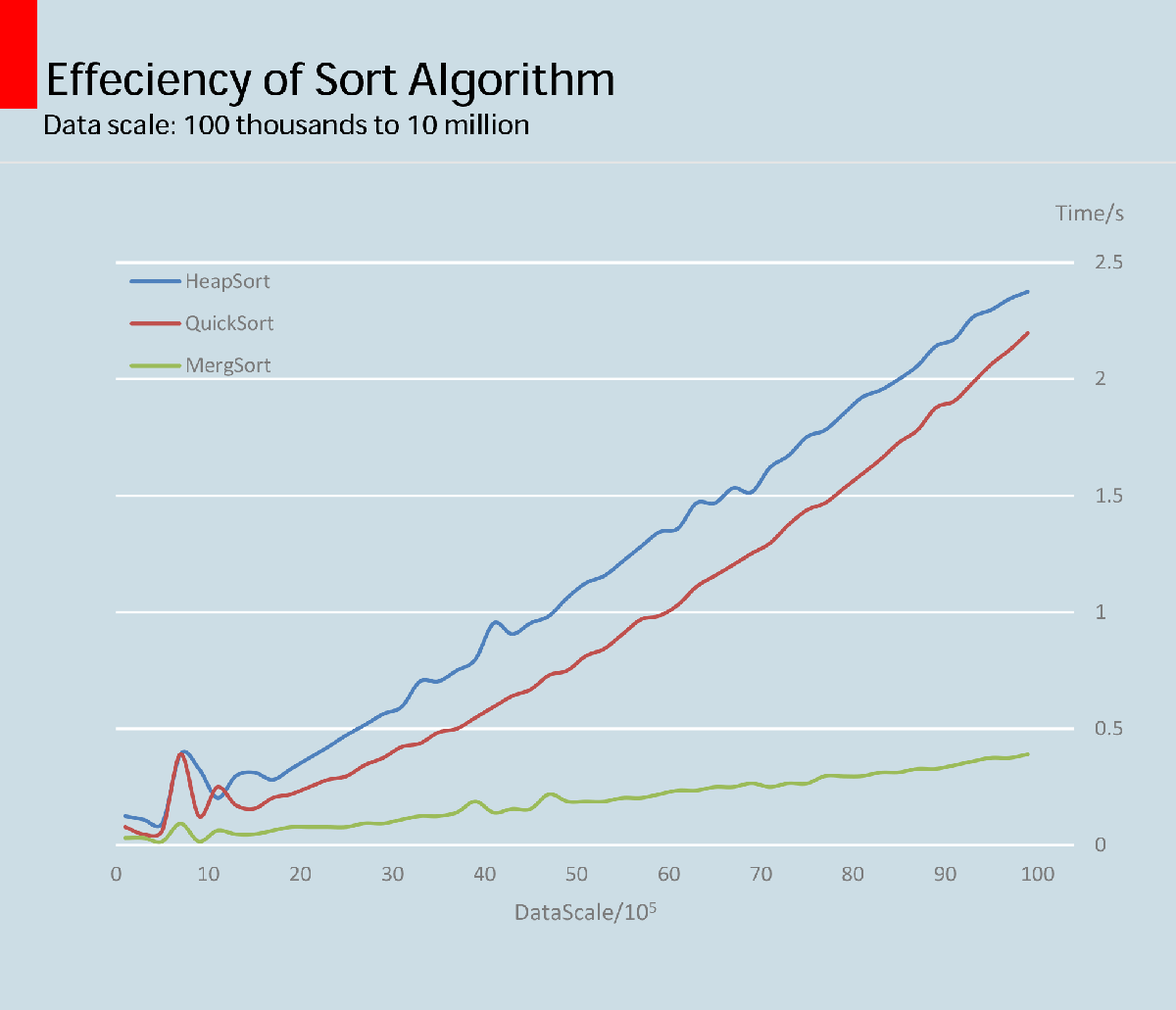
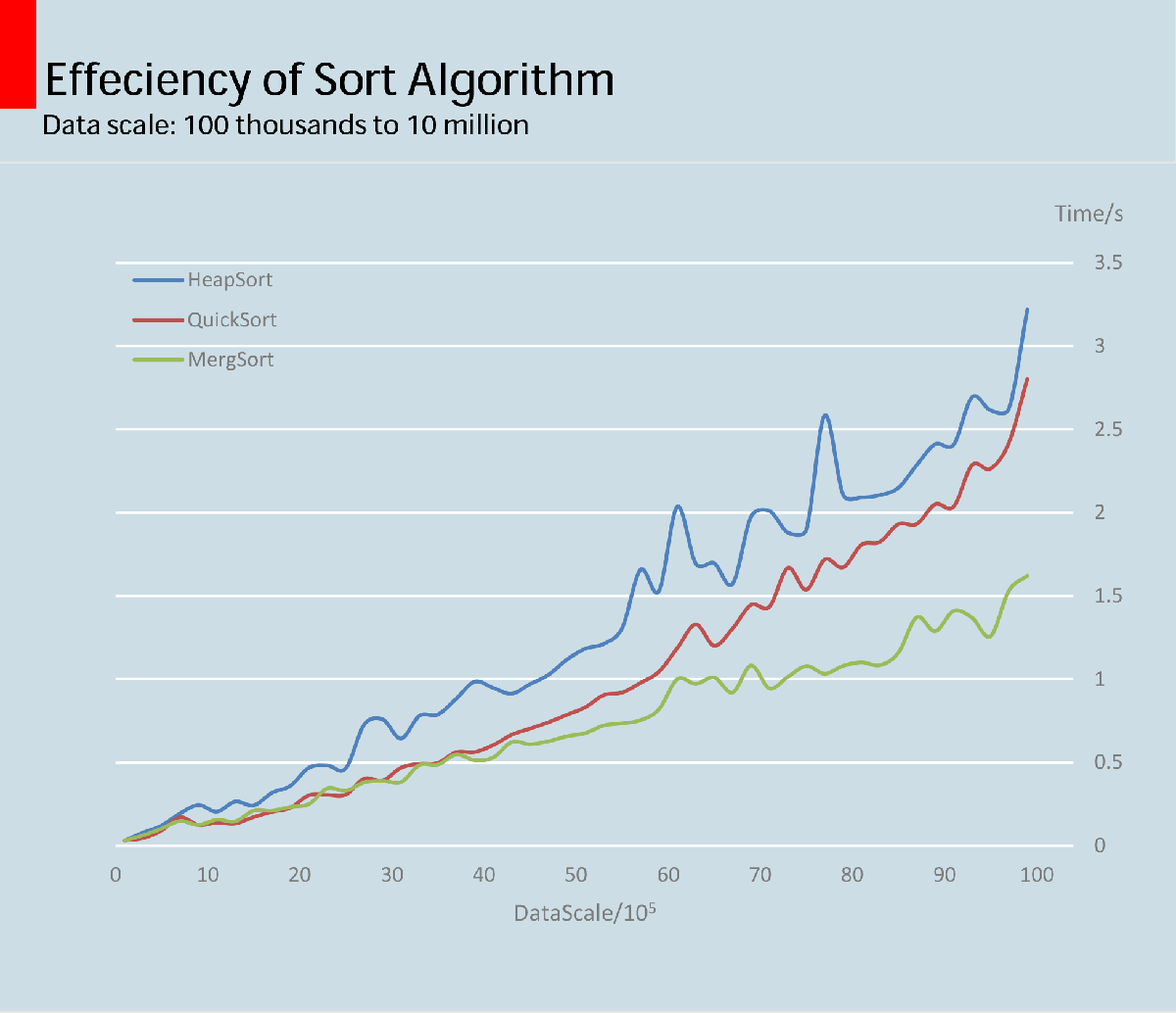
Site updated: 2018-04-08 22:41:05

diff --git a/2018/04/05/linear-list-java/index.html b/2018/04/05/linear-list-java/index.html
@@ -16,7 +16,7 @@
 <meta property="og:site_name" content="LangInteger">
 <meta property="og:description" content="本例中线性表顺序映像实现难点主要在于实现线性表的add函数，借鉴JDK源码中的空间扩增方式，每次增加原有容量的一半。由于标记线性表大小的size变量为int类型，故需要考虑size值溢出的情况。">
 <meta property="og:locale" content="default">
-<meta property="og:updated_time" content="2018-04-08T08:26:01.588Z">
+<meta property="og:updated_time" content="2018-04-08T10:38:47.861Z">
 <meta name="twitter:card" content="summary">
 <meta name="twitter:title" content="线性表顺序映像的Java实现">
 <meta name="twitter:description" content="本例中线性表顺序映像实现难点主要在于实现线性表的add函数，借鉴JDK源码中的空间扩增方式，每次增加原有容量的一半。由于标记线性表大小的size变量为int类型，故需要考虑size值溢出的情况。">
@@ -169,20 +169,19 @@
     
     <div class="article-entry" itemprop="articleBody">
       
-        <ul>
-<li><p>本例中线性表顺序映像实现难点主要在于实现线性表的add函数，借鉴JDK源码中的空间扩增方式，每次增加原有容量的一半。由于标记线性表大小的size变量为int类型，故需要考虑size值溢出的情况。</p>
-<a id="more"></a>
-</li>
-<li><p>定义接口<code>LinearList</code>，接口中的抽象方法主要涵盖增删查改。</p>
+        <blockquote>
+<p>本例中线性表顺序映像实现难点主要在于实现线性表的add函数，借鉴JDK源码中的空间扩增方式，每次增加原有容量的一半。由于标记线性表大小的size变量为int类型，故需要考虑size值溢出的情况。<br><a id="more"></a></p>
+</blockquote>
+<ul>
+<li>定义接口<code>LinearList</code>，接口中的抽象方法主要涵盖增删查改。<blockquote>
 <ul>
 <li>void add(String s, int index);            在线性表下标为index处插入s</li>
-<li>void add(String s);                       在线性表末尾处插入s</li>
 <li>int indexOf(String s);                    查找s在线性表中的索引</li>
 <li>String remove(int index);                 从线性表下标为index处删除元素</li>
 <li>boolean remove(String s);                 删除线性表中第一个s</li>
-<li>boolean set(int index, String s);         修改线性表索引index处的元素为s</li>
 <li>String toString();                        将线性表中元素进行格式化输出</li>
 </ul>
+</blockquote>
 </li>
 </ul>
 <figure class="highlight java"><table><tr><td class="gutter"><pre><span class="line">1</span><br><span class="line">2</span><br><span class="line">3</span><br><span class="line">4</span><br><span class="line">5</span><br><span class="line">6</span><br><span class="line">7</span><br><span class="line">8</span><br><span class="line">9</span><br><span class="line">10</span><br><span class="line">11</span><br><span class="line">12</span><br><span class="line">13</span><br><span class="line">14</span><br><span class="line">15</span><br><span class="line">16</span><br><span class="line">17</span><br><span class="line">18</span><br><span class="line">19</span><br><span class="line">20</span><br><span class="line">21</span><br><span class="line">22</span><br><span class="line">23</span><br><span class="line">24</span><br><span class="line">25</span><br><span class="line">26</span><br><span class="line">27</span><br><span class="line">28</span><br><span class="line">29</span><br><span class="line">30</span><br><span class="line">31</span><br><span class="line">32</span><br><span class="line">33</span><br><span class="line">34</span><br><span class="line">35</span><br><span class="line">36</span><br><span class="line">37</span><br><span class="line">38</span><br><span class="line">39</span><br><span class="line">40</span><br><span class="line">41</span><br><span class="line">42</span><br><span class="line">43</span><br><span class="line">44</span><br><span class="line">45</span><br><span class="line">46</span><br><span class="line">47</span><br><span class="line">48</span><br><span class="line">49</span><br><span class="line">50</span><br><span class="line">51</span><br><span class="line">52</span><br><span class="line">53</span><br><span class="line">54</span><br><span class="line">55</span><br><span class="line">56</span><br><span class="line">57</span><br><span class="line">58</span><br><span class="line">59</span><br><span class="line">60</span><br><span class="line">61</span><br><span class="line">62</span><br><span class="line">63</span><br><span class="line">64</span><br><span class="line">65</span><br><span class="line">66</span><br><span class="line">67</span><br><span class="line">68</span><br><span class="line">69</span><br><span class="line">70</span><br><span class="line">71</span><br><span class="line">72</span><br><span class="line">73</span><br><span class="line">74</span><br><span class="line">75</span><br><span class="line">76</span><br><span class="line">77</span><br><span class="line">78</span><br><span class="line">79</span><br><span class="line">80</span><br><span class="line">81</span><br><span class="line">82</span><br><span class="line">83</span><br><span class="line">84</span><br><span class="line">85</span><br><span class="line">86</span><br><span class="line">87</span><br><span class="line">88</span><br><span class="line">89</span><br><span class="line">90</span><br><span class="line">91</span><br><span class="line">92</span><br><span class="line">93</span><br><span class="line">94</span><br><span class="line">95</span><br><span class="line">96</span><br><span class="line">97</span><br><span class="line">98</span><br><span class="line">99</span><br><span class="line">100</span><br><span class="line">101</span><br><span class="line">102</span><br><span class="line">103</span><br><span class="line">104</span><br><span class="line">105</span><br><span class="line">106</span><br><span class="line">107</span><br><span class="line">108</span><br><span class="line">109</span><br><span class="line">110</span><br><span class="line">111</span><br><span class="line">112</span><br><span class="line">113</span><br><span class="line">114</span><br><span class="line">115</span><br><span class="line">116</span><br><span class="line">117</span><br><span class="line">118</span><br><span class="line">119</span><br><span class="line">120</span><br><span class="line">121</span><br><span class="line">122</span><br><span class="line">123</span><br><span class="line">124</span><br><span class="line">125</span><br><span class="line">126</span><br><span class="line">127</span><br><span class="line">128</span><br><span class="line">129</span><br><span class="line">130</span><br><span class="line">131</span><br><span class="line">132</span><br><span class="line">133</span><br><span class="line">134</span><br><span class="line">135</span><br><span class="line">136</span><br><span class="line">137</span><br><span class="line">138</span><br><span class="line">139</span><br><span class="line">140</span><br><span class="line">141</span><br><span class="line">142</span><br><span class="line">143</span><br><span class="line">144</span><br><span class="line">145</span><br><span class="line">146</span><br><span class="line">147</span><br><span class="line">148</span><br><span class="line">149</span><br><span class="line">150</span><br><span class="line">151</span><br><span class="line">152</span><br><span class="line">153</span><br><span class="line">154</span><br><span class="line">155</span><br><span class="line">156</span><br><span class="line">157</span><br><span class="line">158</span><br><span class="line">159</span><br><span class="line">160</span><br><span class="line">161</span><br><span class="line">162</span><br><span class="line">163</span><br><span class="line">164</span><br><span class="line">165</span><br><span class="line">166</span><br><span class="line">167</span><br><span class="line">168</span><br></pre></td><td class="code"><pre><span class="line"><span class="keyword">import</span> java.util.Arrays;</span><br><span class="line"><span class="keyword">import</span> java.util.Objects;</span><br><span class="line"></span><br><span class="line"><span class="keyword">public</span> <span class="class"><span class="keyword">class</span> <span class="title">MyArrayList</span> <span class="keyword">implements</span> <span class="title">LinearList</span></span>&#123;</span><br><span class="line"></span><br><span class="line">    <span class="comment">//数组作为基本存储结构</span></span><br><span class="line">    <span class="keyword">private</span> String[] element;</span><br><span class="line">    </span><br><span class="line">    <span class="comment">//size表示线性表已有元素的个数</span></span><br><span class="line">    <span class="keyword">private</span> <span class="keyword">int</span> size;</span><br><span class="line">    </span><br><span class="line">    <span class="comment">//size类型为int，设置下面的常量作为size最大值</span></span><br><span class="line">    <span class="keyword">private</span> <span class="keyword">final</span> <span class="keyword">static</span> <span class="keyword">int</span> MAX_CAPACITY = Integer.MAX_VALUE;</span><br><span class="line">    </span><br><span class="line">    <span class="comment">//当采用默认构造方法时，将线性表空间初始化为10（参考JDK源码）</span></span><br><span class="line">    <span class="keyword">private</span> <span class="keyword">final</span> <span class="keyword">static</span> <span class="keyword">int</span> DEFAULT_INITIAL_CAPACITY = <span class="number">10</span>;</span><br><span class="line"></span><br><span class="line">    <span class="comment">//线性表的默认构造函数</span></span><br><span class="line">    <span class="function"><span class="keyword">public</span> <span class="title">MyArrayList</span><span class="params">()</span> </span>&#123;</span><br><span class="line">        element = <span class="keyword">new</span> String[DEFAULT_INITIAL_CAPACITY];</span><br><span class="line">    &#125;</span><br><span class="line"></span><br><span class="line">    <span class="comment">//线性表指定初始大小的构造函数</span></span><br><span class="line">    <span class="function"><span class="keyword">public</span> <span class="title">MyArrayList</span><span class="params">(<span class="keyword">int</span> initialCapacity)</span> </span>&#123;</span><br><span class="line">        <span class="keyword">if</span> (initialCapacity &gt; <span class="number">0</span>)&#123;</span><br><span class="line">            element = <span class="keyword">new</span> String[initialCapacity];</span><br><span class="line">        &#125; <span class="keyword">else</span> &#123;</span><br><span class="line">            <span class="keyword">throw</span> <span class="keyword">new</span> IllegalArgumentException(<span class="string">"Illegal initial argument: "</span> + initialCapacity);</span><br><span class="line">        &#125;</span><br><span class="line">    &#125;</span><br><span class="line"></span><br><span class="line">    <span class="meta">@Override</span></span><br><span class="line">    <span class="function"><span class="keyword">public</span> <span class="keyword">void</span> <span class="title">add</span><span class="params">(String s, <span class="keyword">int</span> index)</span> </span>&#123;</span><br><span class="line">        <span class="comment">//1.检查索引是否合法</span></span><br><span class="line">        rangeCheckForAdd(index);</span><br><span class="line">        </span><br><span class="line">        <span class="comment">//2.保证当前线性表长度满足插入一个元素的要求</span></span><br><span class="line">        ensureCapacity(size);</span><br><span class="line">        </span><br><span class="line">        <span class="comment">//3.插入元素</span></span><br><span class="line">        <span class="comment">//(size-1) - (index-1) +1</span></span><br><span class="line">        <span class="comment">//防止index + 1溢出</span></span><br><span class="line">        <span class="keyword">if</span> (index + <span class="number">1</span> &lt; element.length)&#123;</span><br><span class="line">            System.arraycopy(element, index, element, index + <span class="number">1</span>, size - index + <span class="number">1</span>);</span><br><span class="line">        &#125;</span><br><span class="line">        element[index] = s;</span><br><span class="line">        size++;</span><br><span class="line">    &#125;</span><br><span class="line"></span><br><span class="line">    <span class="function"><span class="keyword">private</span> <span class="keyword">void</span> <span class="title">ensureCapacity</span><span class="params">(<span class="keyword">int</span> size)</span> </span>&#123;</span><br><span class="line"></span><br><span class="line">        <span class="comment">//处理线性表容量不够，需要增加的情况</span></span><br><span class="line">        <span class="keyword">if</span> (size + <span class="number">1</span> - element.length &gt; <span class="number">0</span>)&#123;</span><br><span class="line">            <span class="comment">//参考JDK源码。每次增加原有长度的一半</span></span><br><span class="line">            <span class="keyword">int</span> capacityAfterExpansion = size + (size &gt;&gt; <span class="number">1</span>);</span><br><span class="line"></span><br><span class="line">            <span class="comment">//处理size = 1或者0时的特殊情况</span></span><br><span class="line">            <span class="keyword">if</span> (capacityAfterExpansion &lt; size + <span class="number">1</span>)&#123;</span><br><span class="line">                capacityAfterExpansion = size + <span class="number">1</span>;</span><br><span class="line">            &#125;</span><br><span class="line"></span><br><span class="line">            <span class="comment">//处理扩容之后size变量溢出的情况</span></span><br><span class="line">            <span class="keyword">if</span> (capacityAfterExpansion &lt; <span class="number">0</span>)&#123;</span><br><span class="line">                <span class="comment">//如果没有剩余空间</span></span><br><span class="line">                <span class="keyword">if</span> (size + <span class="number">1</span> &lt; <span class="number">0</span>)</span><br><span class="line">                    <span class="keyword">throw</span> <span class="keyword">new</span> OutOfMemoryError(<span class="string">"Out of memory"</span>);</span><br><span class="line">                <span class="keyword">else</span>    <span class="comment">//还有一定的剩余空间</span></span><br><span class="line">                    CapacityAfterExpansion =  MAX_CAPACITY;</span><br><span class="line">            &#125;</span><br><span class="line">            <span class="comment">//将element数组扩展至新长度</span></span><br><span class="line">            element = Arrays.copyOf(element, capacityAfterExpansion);</span><br><span class="line">        &#125;</span><br><span class="line">    &#125;</span><br><span class="line"></span><br><span class="line">    <span class="function"><span class="keyword">private</span> <span class="keyword">void</span> <span class="title">rangeCheckForAdd</span><span class="params">(<span class="keyword">int</span> index)</span> </span>&#123;</span><br><span class="line">        <span class="keyword">if</span> (index &lt; <span class="number">0</span> || index &gt; size) &#123;</span><br><span class="line">            <span class="keyword">throw</span> <span class="keyword">new</span> ArrayIndexOutOfBoundsException(<span class="string">"Index out of bounds: "</span> + index);</span><br><span class="line">        &#125;</span><br><span class="line">    &#125;</span><br><span class="line"></span><br><span class="line">    <span class="meta">@Override</span></span><br><span class="line">    <span class="function"><span class="keyword">public</span> <span class="keyword">void</span> <span class="title">add</span><span class="params">(String s)</span> </span>&#123;</span><br><span class="line">        ensureCapacity(size);</span><br><span class="line">        element[size] = s;</span><br><span class="line">        size++;</span><br><span class="line"></span><br><span class="line">    &#125;</span><br><span class="line"></span><br><span class="line">    <span class="meta">@Override</span></span><br><span class="line">    <span class="function"><span class="keyword">public</span> <span class="keyword">int</span> <span class="title">indexOf</span><span class="params">(String s)</span> </span>&#123;</span><br><span class="line"></span><br><span class="line">        <span class="keyword">for</span> (<span class="keyword">int</span> i = <span class="number">0</span>; i &lt; size; i++) &#123;</span><br><span class="line">            <span class="keyword">if</span> (Objects.equals(element[i], s))</span><br><span class="line">                <span class="keyword">return</span> i;</span><br><span class="line">        &#125;</span><br><span class="line">        <span class="keyword">return</span> -<span class="number">1</span>;</span><br><span class="line">    &#125;</span><br><span class="line"></span><br><span class="line">    <span class="meta">@Override</span></span><br><span class="line">    <span class="function"><span class="keyword">public</span> String <span class="title">remove</span><span class="params">(<span class="keyword">int</span> index)</span> </span>&#123;</span><br><span class="line">        String toBeRemoved = element[index];</span><br><span class="line"></span><br><span class="line">        <span class="comment">//rangeCheck</span></span><br><span class="line">        rangeCheck(index);</span><br><span class="line"></span><br><span class="line">        <span class="keyword">int</span> numToMove = size - index - <span class="number">1</span>;</span><br><span class="line">        <span class="keyword">if</span> (numToMove &gt; <span class="number">0</span>)&#123;</span><br><span class="line">            System.arraycopy(element, index + <span class="number">1</span>, element, index, numToMove);</span><br><span class="line">        &#125;</span><br><span class="line"></span><br><span class="line">        element[size - <span class="number">1</span>] = <span class="keyword">null</span>;</span><br><span class="line">        size--;</span><br><span class="line">        <span class="keyword">return</span> toBeRemoved;</span><br><span class="line">    &#125;</span><br><span class="line"></span><br><span class="line">    <span class="meta">@Override</span></span><br><span class="line">    <span class="function"><span class="keyword">public</span> <span class="keyword">boolean</span> <span class="title">remove</span><span class="params">(String s)</span> </span>&#123;</span><br><span class="line">        <span class="keyword">for</span> (<span class="keyword">int</span> i = <span class="number">0</span>; i &lt; size; i++) &#123;</span><br><span class="line">            <span class="keyword">if</span> (Objects.equals(s, element[i]))&#123;</span><br><span class="line">                remove(i);</span><br><span class="line">                <span class="keyword">return</span> <span class="keyword">true</span>;</span><br><span class="line">            &#125;</span><br><span class="line">        &#125;</span><br><span class="line">        <span class="keyword">return</span> <span class="keyword">false</span>;</span><br><span class="line">    &#125;</span><br><span class="line"></span><br><span class="line">    <span class="meta">@Override</span></span><br><span class="line">    <span class="function"><span class="keyword">public</span> <span class="keyword">boolean</span> <span class="title">set</span><span class="params">(<span class="keyword">int</span> index, String s)</span> </span>&#123;</span><br><span class="line"></span><br><span class="line">        rangeCheck(index);</span><br><span class="line"></span><br><span class="line">        <span class="keyword">int</span> loc = indexOf(s);</span><br><span class="line">        <span class="keyword">if</span> (loc &gt; -<span class="number">1</span>)&#123;</span><br><span class="line">            element[loc] = s;</span><br><span class="line">            <span class="keyword">return</span> <span class="keyword">true</span>;</span><br><span class="line">        &#125;</span><br><span class="line">        <span class="keyword">return</span> <span class="keyword">false</span>;</span><br><span class="line">    &#125;</span><br><span class="line"></span><br><span class="line">    <span class="function"><span class="keyword">private</span> <span class="keyword">void</span> <span class="title">rangeCheck</span><span class="params">(<span class="keyword">int</span> index)</span> </span>&#123;</span><br><span class="line">        <span class="keyword">if</span> (index &lt; <span class="number">0</span> || index &gt; size - <span class="number">1</span>)&#123;</span><br><span class="line">            <span class="keyword">throw</span> <span class="keyword">new</span> ArrayIndexOutOfBoundsException(<span class="string">"Illegal index"</span> + index);</span><br><span class="line">        &#125;</span><br><span class="line">    &#125;</span><br><span class="line"></span><br><span class="line"></span><br><span class="line">    <span class="meta">@Override</span></span><br><span class="line">    <span class="function"><span class="keyword">public</span> String <span class="title">toString</span><span class="params">()</span> </span>&#123;</span><br><span class="line"></span><br><span class="line">        <span class="keyword">if</span>(size == <span class="number">0</span>)&#123;</span><br><span class="line">            <span class="keyword">return</span> <span class="string">"[]"</span>;</span><br><span class="line">        &#125;</span><br><span class="line"></span><br><span class="line">        StringBuffer stringBuffer = <span class="keyword">new</span> StringBuffer(<span class="string">"["</span>);</span><br><span class="line"></span><br><span class="line">        <span class="keyword">for</span> (<span class="keyword">int</span> i = <span class="number">0</span>; i &lt; size; i++) &#123;</span><br><span class="line">            stringBuffer.append(element[i]);</span><br><span class="line">            <span class="keyword">if</span> (i == size - <span class="number">1</span>)&#123;</span><br><span class="line">                stringBuffer.append(<span class="string">"]"</span>);</span><br><span class="line">                <span class="keyword">break</span>;</span><br><span class="line">            &#125;</span><br><span class="line">            stringBuffer.append(<span class="string">", "</span>);</span><br><span class="line">        &#125;</span><br><span class="line"></span><br><span class="line">        <span class="keyword">return</span> stringBuffer.toString();</span><br><span class="line"></span><br><span class="line">    &#125;</span><br><span class="line">&#125;</span><br></pre></td></tr></table></figure>

diff --git a/2018/04/07/java-sort-algrithm/index.html b/2018/04/07/java-sort-algrithm/index.html
@@ -8,20 +8,20 @@
   <link rel="dns-prefetch" href="http://LangInteger.github.io">
   <title>Java排序算法的实现及比美 | LangInteger</title>
   <meta name="viewport" content="width=device-width, initial-scale=1, maximum-scale=1">
-  <meta name="description" content="今日用Java实现了几种排序算法，包括冒泡排序、简单选择排序、插入排序、归并排序和快速排序。前三种是我以前眼中比较low的时间复杂度为O(n^2)的算法，后面两种则是感觉各种高大上的时间复杂度为O(nlogn)的排序。写完之后手痒痒，对这几种排序进行了100000~1000000数据量之间排序性能的测试，由于归并排序比较扯淡，不在次次测试之列(事实是它并不扯淡)。">
+  <meta name="description" content="今日用Java实现了几种排序算法，包括冒泡排序、简单选择排序、插入排序、归并排序和快速排序。前三种是我以前眼中比较low的时间复杂度为O(n^2)的算法，后面两种则是感觉各种高大上的时间复杂度为O(nlogn)的排序。写完之后手痒痒，对这几种排序进行了10万~100万数据量之间排序性能的测试，由于归并排序比较扯淡，不在次次测试之列（事实是它并不扯淡）。">
 <meta name="keywords" content="Java,Algrithm">
 <meta property="og:type" content="article">
 <meta property="og:title" content="Java排序算法的实现及比美">
 <meta property="og:url" content="http://LangInteger.github.io/2018/04/07/java-sort-algrithm/index.html">
 <meta property="og:site_name" content="LangInteger">
-<meta property="og:description" content="今日用Java实现了几种排序算法，包括冒泡排序、简单选择排序、插入排序、归并排序和快速排序。前三种是我以前眼中比较low的时间复杂度为O(n^2)的算法，后面两种则是感觉各种高大上的时间复杂度为O(nlogn)的排序。写完之后手痒痒，对这几种排序进行了100000~1000000数据量之间排序性能的测试，由于归并排序比较扯淡，不在次次测试之列(事实是它并不扯淡)。">
+<meta property="og:description" content="今日用Java实现了几种排序算法，包括冒泡排序、简单选择排序、插入排序、归并排序和快速排序。前三种是我以前眼中比较low的时间复杂度为O(n^2)的算法，后面两种则是感觉各种高大上的时间复杂度为O(nlogn)的排序。写完之后手痒痒，对这几种排序进行了10万~100万数据量之间排序性能的测试，由于归并排序比较扯淡，不在次次测试之列（事实是它并不扯淡）。">
 <meta property="og:locale" content="default">
 <meta property="og:image" content="http://langinteger.github.io/2018/04/07/java-sort-algrithm/sort_result_table.png">
 <meta property="og:image" content="http://langinteger.github.io/2018/04/07/java-sort-algrithm/sort_result_chart.png">
-<meta property="og:updated_time" content="2018-04-08T08:27:04.494Z">
+<meta property="og:updated_time" content="2018-04-08T10:42:43.627Z">
 <meta name="twitter:card" content="summary">
 <meta name="twitter:title" content="Java排序算法的实现及比美">
-<meta name="twitter:description" content="今日用Java实现了几种排序算法，包括冒泡排序、简单选择排序、插入排序、归并排序和快速排序。前三种是我以前眼中比较low的时间复杂度为O(n^2)的算法，后面两种则是感觉各种高大上的时间复杂度为O(nlogn)的排序。写完之后手痒痒，对这几种排序进行了100000~1000000数据量之间排序性能的测试，由于归并排序比较扯淡，不在次次测试之列(事实是它并不扯淡)。">
+<meta name="twitter:description" content="今日用Java实现了几种排序算法，包括冒泡排序、简单选择排序、插入排序、归并排序和快速排序。前三种是我以前眼中比较low的时间复杂度为O(n^2)的算法，后面两种则是感觉各种高大上的时间复杂度为O(nlogn)的排序。写完之后手痒痒，对这几种排序进行了10万~100万数据量之间排序性能的测试，由于归并排序比较扯淡，不在次次测试之列（事实是它并不扯淡）。">
 <meta name="twitter:image" content="http://langinteger.github.io/2018/04/07/java-sort-algrithm/sort_result_table.png">
   
     <link rel="alternative" href="/atom.xml" title="LangInteger" type="application/atom+xml">
@@ -172,7 +172,9 @@
     
     <div class="article-entry" itemprop="articleBody">
       
-        <p>今日用Java实现了几种排序算法，包括冒泡排序、简单选择排序、插入排序、归并排序和快速排序。前三种是我以前眼中比较low的时间复杂度为O(n^2)的算法，后面两种则是感觉各种高大上的时间复杂度为O(nlogn)的排序。写完之后手痒痒，对这几种排序进行了100000~1000000数据量之间排序性能的测试，<del>由于归并排序比较扯淡，不在次次测试之列</del>(事实是它并不扯淡)。<br><a id="more"></a></p>
+        <blockquote>
+<p>今日用Java实现了几种排序算法，包括冒泡排序、简单选择排序、插入排序、归并排序和快速排序。前三种是我以前眼中比较low的时间复杂度为O(n^2)的算法，后面两种则是感觉各种高大上的时间复杂度为O(nlogn)的排序。写完之后手痒痒，对这几种排序进行了10万~100万数据量之间排序性能的测试，<del>由于归并排序比较扯淡，不在次次测试之列</del>（事实是它并不扯淡）。<br><a id="more"></a></p>
+</blockquote>
 <ul>
 <li>本文分三个章节：<ul>
 <li>排序算法测试分析</li>
@@ -181,21 +183,10 @@
 </ul>
 </li>
 </ul>
-<h2 id="1-排序测试结果分析"><a href="#1-排序测试结果分析" class="headerlink" title="1 排序测试结果分析"></a>1 排序测试结果分析</h2><ul>
-<li><p>这次测试中有三种O(n^2)的算法，分别为冒泡排序、简单选择排序、插入排序，和一种O(nlogn)的快排算法。四种算法在10万至100万数据量之间奋力一搏，其中尤以冒泡排序欲仙欲死（反正等得我花儿都谢了的），具体的测试数据见下表。<br><img src="/2018/04/07/java-sort-algrithm/sort_result_table.png" alt="sort-result-table"></p>
-</li>
-<li><p>为了让结果更加直观，又绘了一张图（见下）。可以看到，冒泡排序扶摇直上，不坠青云之志，简单选择和插入则你追我赶，情意绵绵，只有快速排序仰望星空，却又不忘脚踏实地，<br><img src="/2018/04/07/java-sort-algrithm/sort_result_chart.png" alt="sort-result-chart"></p>
-</li>
-</ul>
-<h2 id="2-O-n-2-算法和它们的亲戚一览"><a href="#2-O-n-2-算法和它们的亲戚一览" class="headerlink" title="2 O(n^2)算法和它们的亲戚一览"></a>2 O(n^2)算法和它们的亲戚一览</h2><ul>
-<li><code>冒泡排序</code>是依次将相邻的两个数进行比较，经过<strong>一趟</strong>比较会把一个数（无序序列中的最大值或者最小值）放到序列的最终位置。冒泡排序是<code>稳定</code>的。冒泡排序的亲戚是<code>快速排序</code>，这是一种经典的基于<code>分治法</code>的算法，<code>快速排序</code>是<code>不稳定</code>的。</li>
-<li><code>简单选择排序</code>：对线性表L[1..n]，第i趟排序即从L[i…n]中选择关键字最小的元素与L(i)交换，每一趟排序可以确定一个元素的最终位置。<code>简单选择排序</code>是<code>不稳定</code>的，因为它很跳。简单选择排序的亲戚是<code>堆排序</code>，它将顺序表看成是完全二叉树的顺序存储结构，借用完全二叉树中父节点和子节点的关系，在无序区中找到关键字最大（或最小）的元素。<code>堆排序</code>也是<code>不稳定</code>的。</li>
-<li><code>直接插入排序</code>：每次将一个待排序的元素，按其关键字大小插入前面已经有序的子序列中，<code>直接插入</code>排序是稳定的，其插入的过程可以通过<code>二分查找</code>进行优化。直接插入排序的亲戚是<code>希尔排序</code>，又称为缩小增量排序，它先对原序列的子序列进行直接插入排序，完成后整个序列基本有序，再对全体记录进行一次直接插入排序。<code>希尔排序</code>时间复杂度不确定且<code>不稳定</code>。</li>
-</ul>
-<h2 id="3-政治正确的快排"><a href="#3-政治正确的快排" class="headerlink" title="3 政治正确的快排"></a>3 政治正确的快排</h2><ul>
-<li>经过本次测试，让我更加坚定了快速排序一百年不动摇的大政方针，坚决拥护以快排为中心的排序中央，胸前的红领巾更加鲜艳了。</li>
-<li>代码如下：</li>
-</ul>
+<h2 id="1-排序测试结果分析"><a href="#1-排序测试结果分析" class="headerlink" title="1 排序测试结果分析"></a>1 排序测试结果分析</h2><p>这次测试中有三种O(n^2)的算法，分别为冒泡排序、简单选择排序、插入排序，和一种O(nlogn)的快排算法。四种算法在10万至100万数据量之间奋力一搏，其中尤以冒泡排序欲仙欲死（反正等得我花儿都谢了的），具体的测试数据见下表。<br><img src="/2018/04/07/java-sort-algrithm/sort_result_table.png" alt="sort-result-table"></p>
+<p>为了让结果更加直观，又绘了一张图（见下）。可以看到，冒泡排序扶摇直上，不坠青云之志，简单选择和插入则你追我赶，情意绵绵，只有快速排序仰望星空，却又不忘脚踏实地，<br><img src="/2018/04/07/java-sort-algrithm/sort_result_chart.png" alt="sort-result-chart"></p>
+<h2 id="2-O-n-2-算法和它们的亲戚一览"><a href="#2-O-n-2-算法和它们的亲戚一览" class="headerlink" title="2 O(n^2)算法和它们的亲戚一览"></a>2 O(n^2)算法和它们的亲戚一览</h2><p><code>冒泡排序</code>是依次将相邻的两个数进行比较，经过<strong>一趟</strong>比较会把一个数（无序序列中的最大值或者最小值）放到序列的最终位置。冒泡排序是<code>稳定</code>的。冒泡排序的亲戚是<code>快速排序</code>，这是一种经典的基于<code>分治法</code>的算法，<code>快速排序</code>是<code>不稳定</code>的。<br><code>简单选择排序</code>：对线性表L[1..n]，第i趟排序即从L[i…n]中选择关键字最小的元素与L(i)交换，每一趟排序可以确定一个元素的最终位置。<code>简单选择排序</code>是<code>不稳定</code>的，因为它很跳。简单选择排序的亲戚是<code>堆排序</code>，它将顺序表看成是完全二叉树的顺序存储结构，借用完全二叉树中父节点和子节点的关系，在无序区中找到关键字最大（或最小）的元素。<code>堆排序</code>也是<code>不稳定</code>的。<br><code>直接插入排序</code>：每次将一个待排序的元素，按其关键字大小插入前面已经有序的子序列中，<code>直接插入</code>排序是稳定的，其插入的过程可以通过<code>二分查找</code>进行优化。直接插入排序的亲戚是<code>希尔排序</code>，又称为缩小增量排序，它先对原序列的子序列进行直接插入排序，完成后整个序列基本有序，再对全体记录进行一次直接插入排序。<code>希尔排序</code>时间复杂度不确定且<code>不稳定</code>。</p>
+<h2 id="3-政治正确的快排"><a href="#3-政治正确的快排" class="headerlink" title="3 政治正确的快排"></a>3 政治正确的快排</h2><p>经过本次测试，让我更加坚定了快速排序一百年不动摇的大政方针，坚决拥护以快排为中心的排序中央，胸前的红领巾更加鲜艳了。<br>代码如下：</p>
 <figure class="highlight java"><table><tr><td class="gutter"><pre><span class="line">1</span><br><span class="line">2</span><br><span class="line">3</span><br><span class="line">4</span><br><span class="line">5</span><br><span class="line">6</span><br><span class="line">7</span><br><span class="line">8</span><br><span class="line">9</span><br><span class="line">10</span><br><span class="line">11</span><br><span class="line">12</span><br><span class="line">13</span><br><span class="line">14</span><br><span class="line">15</span><br><span class="line">16</span><br><span class="line">17</span><br><span class="line">18</span><br><span class="line">19</span><br><span class="line">20</span><br><span class="line">21</span><br><span class="line">22</span><br><span class="line">23</span><br><span class="line">24</span><br><span class="line">25</span><br><span class="line">26</span><br><span class="line">27</span><br></pre></td><td class="code"><pre><span class="line"><span class="function"><span class="keyword">public</span> <span class="keyword">static</span> <span class="keyword">void</span> <span class="title">qSort</span><span class="params">(<span class="keyword">int</span>[] target)</span> </span>&#123;</span><br><span class="line">    qSort(target, <span class="number">0</span>, target.length - <span class="number">1</span>);</span><br><span class="line">&#125;</span><br><span class="line"></span><br><span class="line"><span class="function"><span class="keyword">private</span> <span class="keyword">static</span> <span class="keyword">void</span> <span class="title">qSort</span><span class="params">(<span class="keyword">int</span>[] target, <span class="keyword">int</span> start, <span class="keyword">int</span> end)</span> </span>&#123;</span><br><span class="line"></span><br><span class="line">    <span class="keyword">if</span> (start &lt; end) &#123;</span><br><span class="line">        <span class="keyword">int</span> pivotPositon = partion(target, start, end);</span><br><span class="line">        qSort(target, start, pivotPositon - <span class="number">1</span>);</span><br><span class="line">        qSort(target, pivotPositon + <span class="number">1</span>, end);</span><br><span class="line">    &#125;</span><br><span class="line">&#125;</span><br><span class="line"></span><br><span class="line"><span class="function"><span class="keyword">private</span> <span class="keyword">static</span> <span class="keyword">int</span> <span class="title">partion</span><span class="params">(<span class="keyword">int</span>[] target, <span class="keyword">int</span> start, <span class="keyword">int</span> end)</span> </span>&#123;</span><br><span class="line">    <span class="keyword">int</span> pivot = target[start];</span><br><span class="line">    <span class="keyword">while</span>(start &lt; end) &#123;</span><br><span class="line">        <span class="keyword">while</span> (start &lt; end &amp;&amp; target[end] &gt;= pivot)</span><br><span class="line">            end--;</span><br><span class="line">        target[start] = target[end];</span><br><span class="line"></span><br><span class="line">        <span class="keyword">while</span> (start &lt; end &amp;&amp; target[start] &lt;= pivot)</span><br><span class="line">            start++;</span><br><span class="line">        target[end] = target[start];</span><br><span class="line">    &#125;</span><br><span class="line">    target[start] = pivot;</span><br><span class="line">    <span class="keyword">return</span> start;</span><br><span class="line">&#125;</span><br></pre></td></tr></table></figure>
       
 

diff --git a/2018/04/08/java-sort-algrithm2/index.html b/2018/04/08/java-sort-algrithm2/index.html
@@ -18,7 +18,8 @@
 <meta property="og:locale" content="default">
 <meta property="og:image" content="http://langinteger.github.io/2018/04/08/java-sort-algrithm2/sort_result_nlogn_web.png">
 <meta property="og:image" content="http://langinteger.github.io/2018/04/08/java-sort-algrithm2/Sorting_heapsort_anim.gif">
-<meta property="og:updated_time" content="2018-04-08T08:26:02.463Z">
+<meta property="og:image" content="http://langinteger.github.io/2018/04/08/java-sort-algrithm2/Merge-sort-example.gif">
+<meta property="og:updated_time" content="2018-04-08T14:40:02.996Z">
 <meta name="twitter:card" content="summary">
 <meta name="twitter:title" content="Java排序算法的实现及比美-进阶篇">
 <meta name="twitter:description" content="继昨天快排吊打一干O(n^2)的排序算法之后，新的风暴已经出现。堆排序、快速排序、归并排序三个大手子开始决战紫禁之巅，在10w-1000w数据排序的比拼中一探高下。">
@@ -175,13 +176,25 @@
         <blockquote>
 <p>继昨天快排吊打一干O(n^2)的排序算法之后，新的风暴已经出现。堆排序、快速排序、归并排序三个大手子开始决战紫禁之巅，在10w-1000w数据排序的比拼中一探高下。<br><a id="more"></a></p>
 </blockquote>
-<h2 id="1-封神榜"><a href="#1-封神榜" class="headerlink" title="1 封神榜"></a>1 封神榜</h2><blockquote>
-<p>不得不说各位O(nlogn)大佬都很厉害的，1000w级别随机数的排序时间没有超过2.5s（在我这台i7-4600U的弱机上）。而其中，归并排序以其独到的技法成为了最大黑马，一举战胜了堆排序和快排，勇夺第二届排序世锦赛冠军。此次测试的结果见下面的图表。<br><img src="/2018/04/08/java-sort-algrithm2/sort_result_nlogn_web.png" alt="sort_result_nlogn"></p>
-</blockquote>
-<h2 id="2-堆排思想"><a href="#2-堆排思想" class="headerlink" title="2 堆排思想"></a>2 堆排思想</h2><blockquote>
-<p>首先来一张堆排序动画演示图片。<br><img src="/2018/04/08/java-sort-algrithm2/Sorting_heapsort_anim.gif" alt="图片来自Wiki"></p>
-</blockquote>
-<h2 id="3-归排思想"><a href="#3-归排思想" class="headerlink" title="3 归排思想"></a>3 归排思想</h2>
+<h2 id="1-封神榜"><a href="#1-封神榜" class="headerlink" title="1 封神榜"></a>1 封神榜</h2><p>不得不说各位O(nlogn)大佬都很厉害的，1000w级别随机数（随机数范围[0, 10000)）的排序时间没有超过3.5s（在这台i7-4600U的弱机上）。而其中，归并排序以其独特的技法成为了最大黑马，一举战胜了堆排序和快排，勇夺第二届排序世锦赛冠军。此次测试的结果见下面的图表。<br><img src="/2018/04/08/java-sort-algrithm2/sort_result_nlogn_web.png" alt="sort_result_nlogn"></p>
+<h2 id="2-堆排思想"><a href="#2-堆排思想" class="headerlink" title="2 堆排思想"></a>2 堆排思想</h2><p>首先来一张堆排序动画演示图片。<br><img src="/2018/04/08/java-sort-algrithm2/Sorting_heapsort_anim.gif" alt="图片来自Wiki"><br>堆排序是指利用<strong>堆</strong>这种数据结构所设计的一种排序算法。<strong>堆积</strong>是一个近似完全二叉树的结构，并同时满足堆积的性质：即子结点的键值或索引总是小于（或者大于）它的父结点。堆一般通过一维数组来实现,在数组起始位置为1的情形中，结点间有如下关系：</p>
+<ul>
+<li>父结点i的左子结点在位置(2i);</li>
+<li>父结点i的右子结点在位置(2i + 1);</li>
+<li>子结点的父结点在位置floor((i - 1) / 2)。</li>
+</ul>
+<p>堆排序原理就是把最大堆堆顶的最大数取出（放到堆所在的数组尾部），将剩余的堆继续调整为最大堆，如此反复，当堆中只剩一个数的时候结束。堆排序中定义的操作主要有：</p>
+<ul>
+<li>下沉（Fixdown）：即根据堆的定义，对不符合条件的结点中的元素进行换位，由于是父结点元素可能被换到子结点，因此形象的称为下沉。</li>
+<li>建堆（Heapify）:即从倒数第一个不是终端叶结点的结点开始，挨个进行下沉操作，注意当父结点的子结点不是终端结点的时候，可能会进行多次下沉操作，此时要用循环或者递归控制。</li>
+<li>堆排序（Heap_Sort）：一般的做法是，将堆顶元素和堆底元素对换，然后对新的堆顶元素执行下沉操作，此时堆的size也随之减1。如此循环，最后将承载堆的一维数组变为一个有序的序列。</li>
+</ul>
+<p>为了节约篇幅，下面的代码只给出了下沉和堆排序的操作，但是在这之前必须要先完成建堆的过程（其实他也是依赖于下沉操作）。</p>
+<figure class="highlight java"><table><tr><td class="gutter"><pre><span class="line">1</span><br><span class="line">2</span><br><span class="line">3</span><br><span class="line">4</span><br><span class="line">5</span><br><span class="line">6</span><br><span class="line">7</span><br><span class="line">8</span><br><span class="line">9</span><br><span class="line">10</span><br><span class="line">11</span><br><span class="line">12</span><br><span class="line">13</span><br><span class="line">14</span><br><span class="line">15</span><br><span class="line">16</span><br><span class="line">17</span><br><span class="line">18</span><br><span class="line">19</span><br><span class="line">20</span><br><span class="line">21</span><br><span class="line">22</span><br><span class="line">23</span><br><span class="line">24</span><br></pre></td><td class="code"><pre><span class="line"><span class="function"><span class="keyword">public</span> <span class="keyword">void</span> <span class="title">heapSort</span><span class="params">()</span> </span>&#123;</span><br><span class="line">        <span class="keyword">for</span> (<span class="keyword">int</span> i = size; i &gt; <span class="number">1</span>;) &#123;</span><br><span class="line">            swap(elements, i, <span class="number">1</span>);</span><br><span class="line">            i--;</span><br><span class="line">            fixDownWithRecursion(<span class="number">1</span> ,i);</span><br><span class="line">        &#125;</span><br><span class="line">    &#125;</span><br><span class="line"></span><br><span class="line">    <span class="comment">//采用非递归方法对index = i处的元素进行下沉操作</span></span><br><span class="line">    <span class="function"><span class="keyword">private</span> <span class="keyword">void</span> <span class="title">fixDown</span><span class="params">(<span class="keyword">int</span> index)</span> </span>&#123;</span><br><span class="line">        <span class="keyword">for</span> (<span class="keyword">int</span> i = index * <span class="number">2</span>; i &lt; size; i *= <span class="number">2</span>) &#123;</span><br><span class="line">            <span class="keyword">int</span> child = i;</span><br><span class="line"></span><br><span class="line">            <span class="keyword">if</span>(child + <span class="number">1</span> &lt;= size) &#123;</span><br><span class="line">                <span class="keyword">if</span> (elements[child + <span class="number">1</span>] &gt; elements[child])</span><br><span class="line">                    child = child + <span class="number">1</span>;</span><br><span class="line">            &#125;</span><br><span class="line"></span><br><span class="line">            <span class="keyword">if</span> (elements[child] &gt; elements[index]) &#123;</span><br><span class="line">                swap(elements, child, index);</span><br><span class="line">                index = i;</span><br><span class="line">            &#125;</span><br><span class="line">        &#125;</span><br><span class="line">    &#125;</span><br></pre></td></tr></table></figure>
+<h2 id="3-归排思想"><a href="#3-归排思想" class="headerlink" title="3 归排思想"></a>3 归排思想</h2><p>首先还是以Wiki上的一幅图片作为说明。<br><img src="/2018/04/08/java-sort-algrithm2/Merge-sort-example.gif" alt="图片来自Wiki"></p>
+<p>归并排序是诺依曼冯大大1945年提出的，该算法是采用分治法的一个非常典型的应用。从这次测试的结果可以看出，当数据量较小的时候，快排和归并排序不相伯仲，但是当数据量超过某个限值后，归并排序的优势就逐渐显现出来了。而且归并排序思想朴素，和二分查找一样是一个绝佳的用来锻炼分治思维的模版。</p>
+<p>算法中最重要也是最细节的部分是merg方法，就是把两个未知长度的有序数列合并成一个有序数列的过程，要注意边界的处理，至于递归部分则是很自然的想法。<br><figure class="highlight java"><table><tr><td class="gutter"><pre><span class="line">1</span><br><span class="line">2</span><br><span class="line">3</span><br><span class="line">4</span><br><span class="line">5</span><br><span class="line">6</span><br><span class="line">7</span><br><span class="line">8</span><br><span class="line">9</span><br><span class="line">10</span><br><span class="line">11</span><br><span class="line">12</span><br><span class="line">13</span><br><span class="line">14</span><br><span class="line">15</span><br><span class="line">16</span><br><span class="line">17</span><br><span class="line">18</span><br><span class="line">19</span><br><span class="line">20</span><br><span class="line">21</span><br><span class="line">22</span><br><span class="line">23</span><br><span class="line">24</span><br><span class="line">25</span><br><span class="line">26</span><br><span class="line">27</span><br><span class="line">28</span><br><span class="line">29</span><br><span class="line">30</span><br><span class="line">31</span><br><span class="line">32</span><br><span class="line">33</span><br><span class="line">34</span><br><span class="line">35</span><br><span class="line">36</span><br></pre></td><td class="code"><pre><span class="line"><span class="function"><span class="keyword">public</span> <span class="keyword">static</span> <span class="keyword">void</span> <span class="title">mergSort</span><span class="params">(<span class="keyword">int</span>[] arr)</span> </span>&#123;</span><br><span class="line">	<span class="keyword">int</span>[] temp = <span class="keyword">new</span> <span class="keyword">int</span>[arr.length];</span><br><span class="line">	mergSort(arr, <span class="number">0</span>, arr.length - <span class="number">1</span>, temp);</span><br><span class="line">&#125;</span><br><span class="line"></span><br><span class="line"><span class="function"><span class="keyword">public</span> <span class="keyword">static</span> <span class="keyword">void</span> <span class="title">mergSort</span><span class="params">(<span class="keyword">int</span>[] arr, <span class="keyword">int</span> start, <span class="keyword">int</span> end, <span class="keyword">int</span>[] temp)</span> </span>&#123;</span><br><span class="line">	<span class="keyword">if</span> (start &lt; end) &#123;</span><br><span class="line">		<span class="keyword">int</span> mid = (start + end) / <span class="number">2</span>;</span><br><span class="line">		mergSort(arr, start, mid, temp);</span><br><span class="line">		mergSort(arr, mid + <span class="number">1</span>, end, temp);</span><br><span class="line"></span><br><span class="line">		merg(arr, start, mid, end, temp);</span><br><span class="line">	&#125;</span><br><span class="line">&#125;</span><br><span class="line"></span><br><span class="line"><span class="function"><span class="keyword">public</span> <span class="keyword">static</span> <span class="keyword">void</span> <span class="title">merg</span><span class="params">(<span class="keyword">int</span>[] arr, <span class="keyword">int</span> start, <span class="keyword">int</span> mid, <span class="keyword">int</span> end, <span class="keyword">int</span>[] temp)</span> </span>&#123;</span><br><span class="line">	<span class="keyword">int</span> lStart = start;</span><br><span class="line">	<span class="keyword">int</span> lEnd = mid;</span><br><span class="line">	<span class="keyword">int</span> rStart = mid + <span class="number">1</span>;</span><br><span class="line">	<span class="keyword">int</span> rEnd = end;</span><br><span class="line"></span><br><span class="line">	<span class="keyword">int</span> k = start;</span><br><span class="line">	<span class="keyword">while</span>(lStart &lt;= lEnd &amp;&amp; rStart &lt;= rEnd) &#123;</span><br><span class="line">		<span class="keyword">if</span> (arr[lStart] &lt;= arr[rStart])</span><br><span class="line">			temp[k++] = arr[lStart++];</span><br><span class="line">		<span class="keyword">else</span></span><br><span class="line">			temp[k++] = arr[rStart++];</span><br><span class="line">	&#125;</span><br><span class="line"></span><br><span class="line">	<span class="keyword">while</span>(lStart &lt;= lEnd)</span><br><span class="line">		temp[k++] = arr[lStart++];</span><br><span class="line">	<span class="keyword">while</span>(rStart &lt;= rEnd)</span><br><span class="line">		temp[k++] = arr[rStart++];</span><br><span class="line"></span><br><span class="line">	System.arraycopy(temp, start, arr, start, end - start + <span class="number">1</span>);</span><br><span class="line">&#125;</span><br></pre></td></tr></table></figure></p>
+
       
 
       

diff --git a/index.html b/index.html
@@ -252,7 +252,8 @@
     
     <div class="article-entry" itemprop="articleBody">
       
-        <p>今日用Java实现了几种排序算法，包括冒泡排序、简单选择排序、插入排序、归并排序和快速排序。前三种是我以前眼中比较low的时间复杂度为O(n^2)的算法，后面两种则是感觉各种高大上的时间复杂度为O(nlogn)的排序。写完之后手痒痒，对这几种排序进行了100000~1000000数据量之间排序性能的测试，<del>由于归并排序比较扯淡，不在次次测试之列</del>(事实是它并不扯淡)。<br></p>
+        <blockquote>
+<p>今日用Java实现了几种排序算法，包括冒泡排序、简单选择排序、插入排序、归并排序和快速排序。前三种是我以前眼中比较low的时间复杂度为O(n^2)的算法，后面两种则是感觉各种高大上的时间复杂度为O(nlogn)的排序。写完之后手痒痒，对这几种排序进行了10万~100万数据量之间排序性能的测试，<del>由于归并排序比较扯淡，不在次次测试之列</del>（事实是它并不扯淡）。<br></p></blockquote>
         
           <a class="article-more-a" href="/2018/04/07/java-sort-algrithm/#more">more >></a>
         
@@ -332,7 +333,8 @@
     
     <div class="article-entry" itemprop="articleBody">
       
-        <p>主要是针对Java面向对象部分知识点的梳理，方便日后查找。<br></p>
+        <blockquote>
+<p>主要是针对Java面向对象部分知识点的梳理，方便日后查找。<br></p></blockquote>
         
           <a class="article-more-a" href="/2018/04/05/java-oop/#more">more >></a>
         
@@ -408,8 +410,8 @@
     
     <div class="article-entry" itemprop="articleBody">
       
-        <ul>
-<li><p>本例中线性表顺序映像实现难点主要在于实现线性表的add函数，借鉴JDK源码中的空间扩增方式，每次增加原有容量的一半。由于标记线性表大小的size变量为int类型，故需要考虑size值溢出的情况。</p></li></ul>
+        <blockquote>
+<p>本例中线性表顺序映像实现难点主要在于实现线性表的add函数，借鉴JDK源码中的空间扩增方式，每次增加原有容量的一半。由于标记线性表大小的size变量为int类型，故需要考虑size值溢出的情况。<br></p></blockquote>
         
           <a class="article-more-a" href="/2018/04/05/linear-list-java/#more">more >></a>
         

diff --git a/2018/04/05/java-oop/index.html b/2018/04/05/java-oop/index.html
@@ -16,7 +16,7 @@
 <meta property="og:site_name" content="LangInteger">
 <meta property="og:description" content="主要是针对Java面向对象部分知识点的梳理，方便日后查找。">
 <meta property="og:locale" content="default">
-<meta property="og:updated_time" content="2018-04-08T08:26:18.059Z">
+<meta property="og:updated_time" content="2018-04-08T10:39:32.170Z">
 <meta name="twitter:card" content="summary">
 <meta name="twitter:title" content="Java面向对象编程知识点总结">
 <meta name="twitter:description" content="主要是针对Java面向对象部分知识点的梳理，方便日后查找。">
@@ -169,7 +169,9 @@
     
     <div class="article-entry" itemprop="articleBody">
       
-        <p>主要是针对Java面向对象部分知识点的梳理，方便日后查找。<br><a id="more"></a></p>
+        <blockquote>
+<p>主要是针对Java面向对象部分知识点的梳理，方便日后查找。<br><a id="more"></a></p>
+</blockquote>
 <h2 id="1-类和对象"><a href="#1-类和对象" class="headerlink" title="1 类和对象"></a>1 类和对象</h2><h3 id="1-类"><a href="#1-类" class="headerlink" title="1. 类"></a>1. 类</h3><ul>
 <li>是同种对象的集合与抽象，是产生对象的模版</li>
 <li>数据类型是指数据集和基于这个数据集的操作，类则是我们的自定义类型，需要由我们定义成员变量和基于数据集的成员方法。</li>
